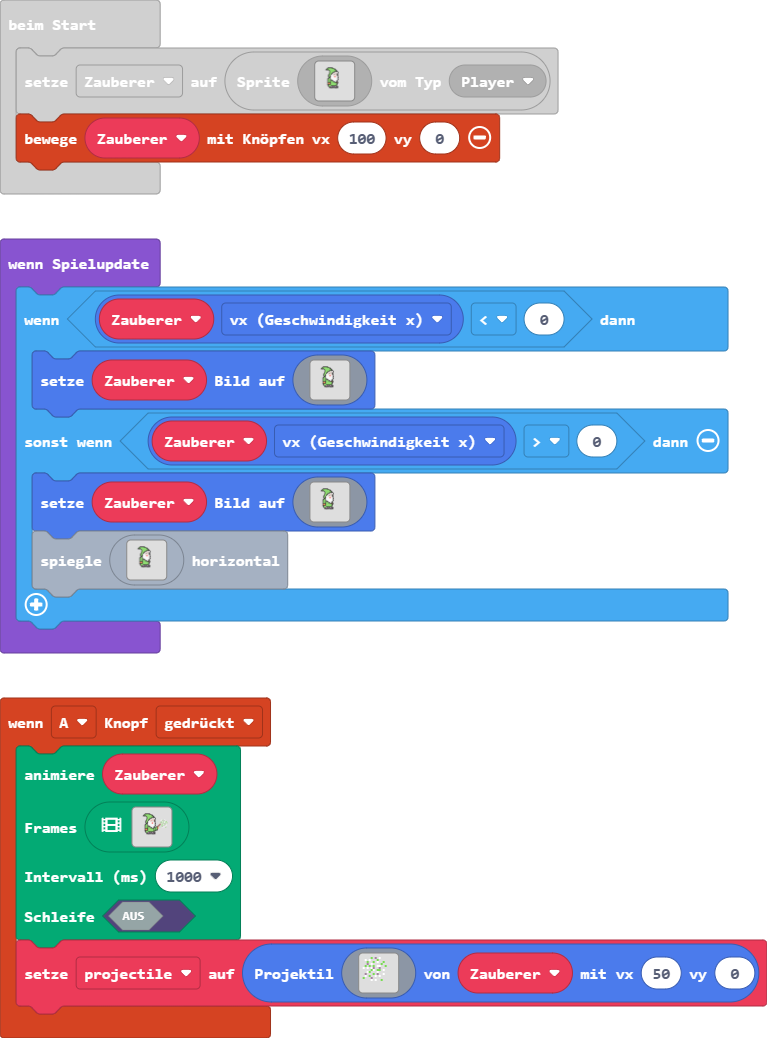
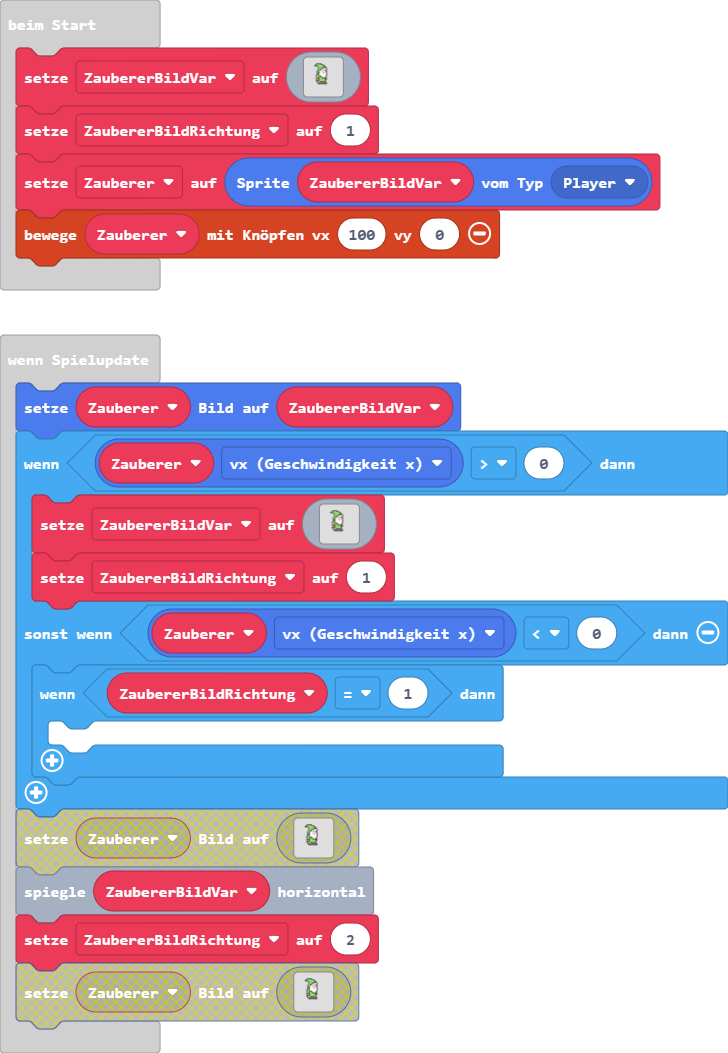
Aktualisiere main.blocks, main.ts

diff --git a/main.ts b/main.ts
@@ -9,13 +9,19 @@ controller.A.onEvent(ControllerButtonEvent.Pressed, function () {
 })
 let projectile: Sprite = null
 let Zauberer: Sprite = null
-Zauberer = sprites.create(assets.image`Magier Normal`, SpriteKind.Player)
+let ZaubererBildVar = assets.image`Magier Normal`
+let ZaubererBildRichtung = 1
+Zauberer = sprites.create(ZaubererBildVar, SpriteKind.Player)
 controller.moveSprite(Zauberer, 100, 0)
 game.onUpdate(function () {
-    if (Zauberer.vx < 0) {
-        Zauberer.setImage(assets.image`Magier Normal`)
-    } else if (Zauberer.vx > 0) {
-        Zauberer.setImage(assets.image`Magier Normal`)
-        assets.image`Magier Normal`.flipX()
+    Zauberer.setImage(ZaubererBildVar)
+    if (Zauberer.vx > 0) {
+        ZaubererBildVar = assets.image`Magier Normal`
+        ZaubererBildRichtung = 1
+    } else if (Zauberer.vx < 0) {
+        if (ZaubererBildRichtung == 1) {
+            ZaubererBildVar.flipX()
+            ZaubererBildRichtung = 2
+        }
     }
 })
